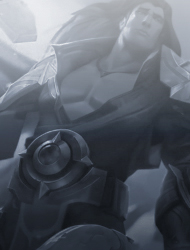
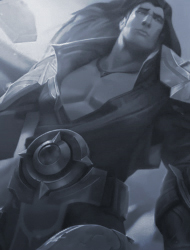
added new background

diff --git a/public_html/games_details.html b/public_html/games_details.html
@@ -141,10 +141,10 @@
 
 
         <!-- Backgrounds -->
-        <img src='bootstrap/img/game_details_bg_league2.jpg' class='content-bg hidden'>
-        <video loop muted autoplay poser="bootstrap/img/lp_header.png" class="video">
+        <img src='bootstrap/img/game_details_bg_league9.jpg' class='content-bg'>
+        <!-- <video loop muted autoplay poser="bootstrap/img/lp_header.png" class="video">
             <source src="bootstrap/video/game_hub_bg2.webm" type="video/webm">
-        </video>
+        </video> -->
 
 
 
